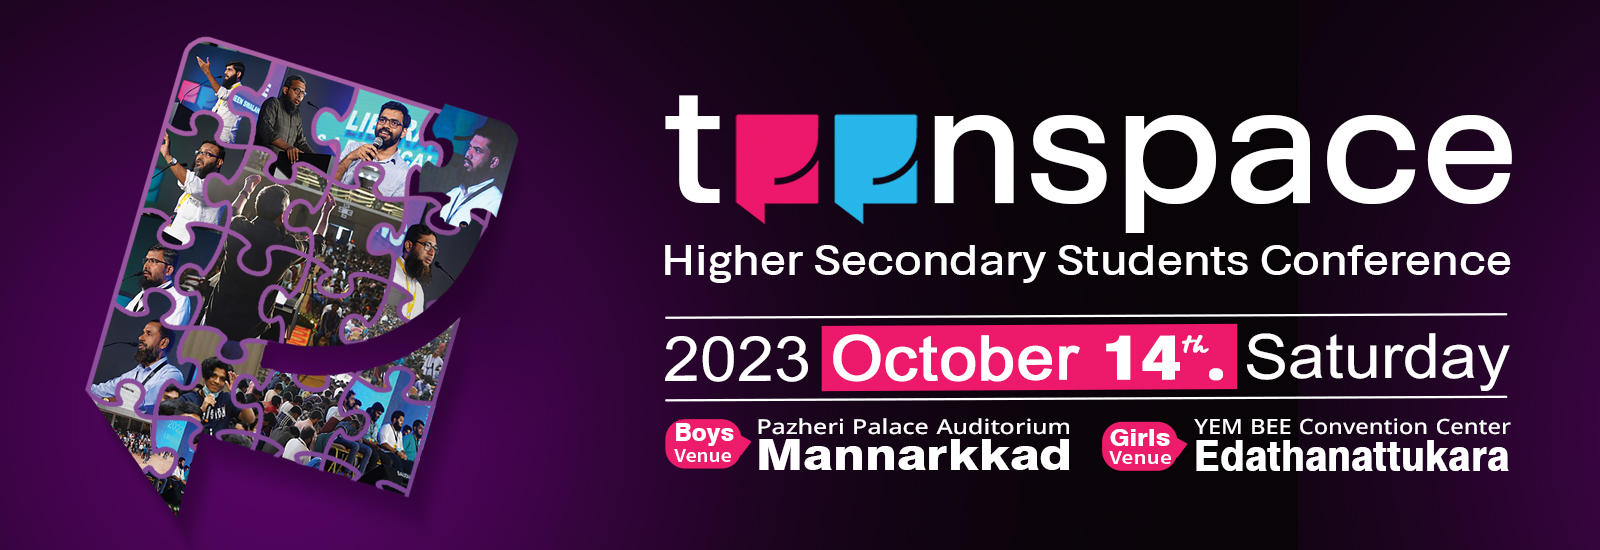
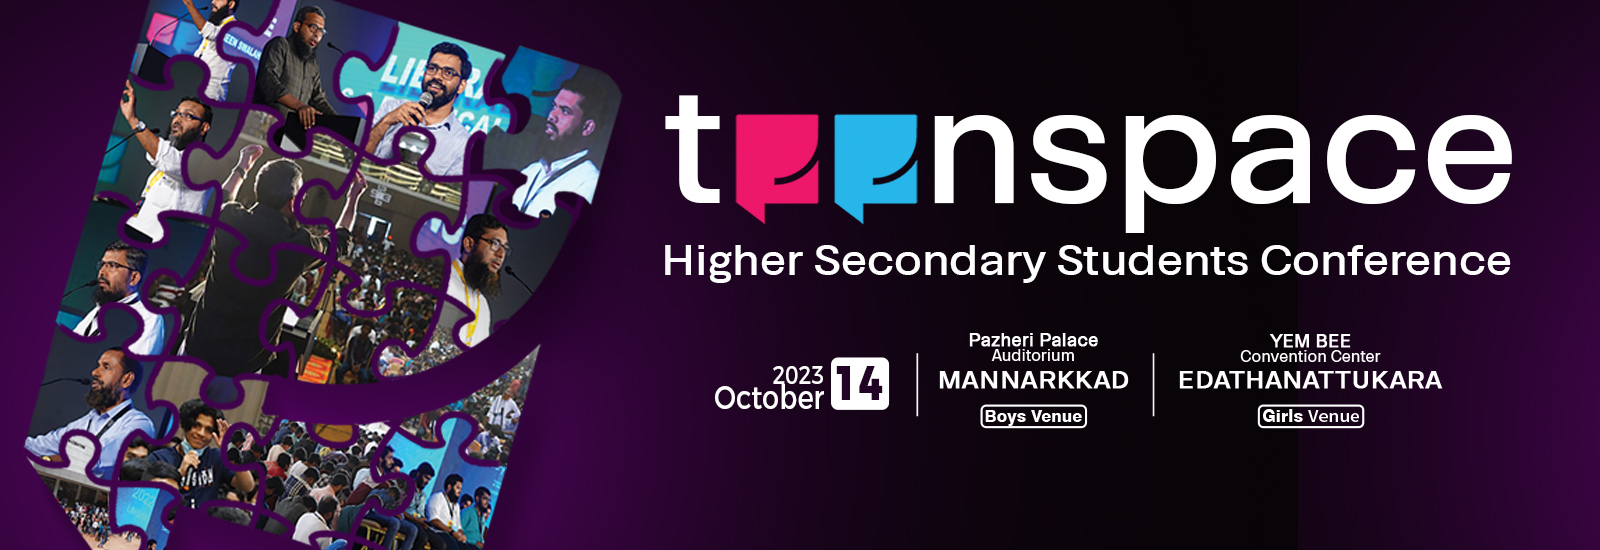
added photoes

diff --git a/index.html b/index.html
@@ -54,7 +54,7 @@ https://www.tooplate.com/view/2125-artxibition
                 <div class="col-12">
                     <nav class="main-nav">
                         <!-- ***** Logo Start ***** -->
-                        <a style="color:#ed176a" href="index.html" class="logo">Teen<em style="color:#28b6ea">space</em></a>
+                        <a style="color:#ed176a" href="index.html" class="logo">teen<em style="color:#28b6ea">space</em></a>
                         <!-- ***** Logo End ***** -->
                         <!-- ***** Menu Start ***** -->
                         <ul class="nav">
@@ -103,13 +103,19 @@ https://www.tooplate.com/view/2125-artxibition
         </div>
     </div>
     <!-- ***** Main Banner Area End ***** -->
- 
+<div class="map-image">
+      <img src="assets\images\Teenspace Text.jpg" alt="Maps of 3 Venues">
+  </div>**
+
 
     <!-- *** Owl Carousel Items ***-->
     <div class="show-events-carousel">
+       
         <div class="container">
             <div class="row">
                 <div class="col-lg-12">
+                  <div class="pb-4"></div>
+
                     <div class="owl-show-events owl-carousel">
                         <div class="item">
                             <a href=""><img src="assets/images/1.jpg" alt=""></a>
@@ -140,9 +146,6 @@ https://www.tooplate.com/view/2125-artxibition
             </div>
         </div>
     </div>
-    <div class="map-image">
-      <img src="assets\images\Teenspace Text.jpg" alt="Maps of 3 Venues">
-  </div>
 
 
     
@@ -168,7 +171,7 @@ https://www.tooplate.com/view/2125-artxibition
 
     <!-- *** Map ***-->
     <div class="map-image">
-        <img src="assets/images/map-image.jpg" alt="Maps of 3 Venues">
+        <img src="assets/images/map-image.jpg" alt="">
     </div>
 
 
@@ -230,7 +233,7 @@ https://www.tooplate.com/view/2125-artxibition
                             <div class="col-md-6 col-sm-12">
                               <fieldset>
                                 <select id="class" class="form-control" name="Gender" required="">
-                                    <option selected="" disabled="">Male/Femal</option>
+                                    <option selected="" disabled="">Male/Female</option>
                                     <option>Male</option>
                                     <option>Female</option>
                                </select>
@@ -239,7 +242,7 @@ https://www.tooplate.com/view/2125-artxibition
                             </div>
                             <div class="col-md-6 col-sm-12">
                               <fieldset>
-                                <input name="Phone Number" type="text" id="phone-number" placeholder="Phone Number*" required="">
+                                <input name="Phone Number" type="tel" id="phone-number" placeholder="Phone Number*" required="">
                               </fieldset>
                             </div>
                             <div class="col-md-6 col-sm-12">
@@ -344,7 +347,7 @@ https://www.tooplate.com/view/2125-artxibition
                 data:$("#submit-form").serialize(),
                 method:"post",
                 success:function (response){
-                    alert("You are Regitered for Teenspace")
+                    alert("You are Registered for Teenspace")
                     window.location.reload()
                     //window.location.href="https://google.com"
                 },
